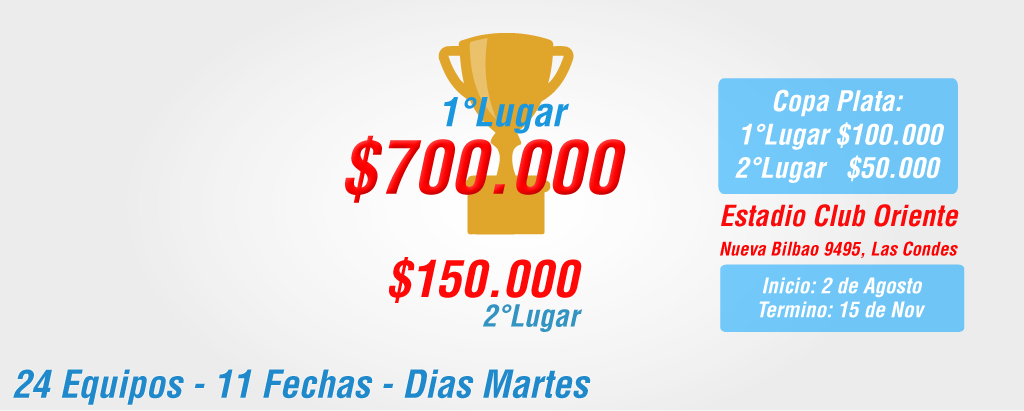
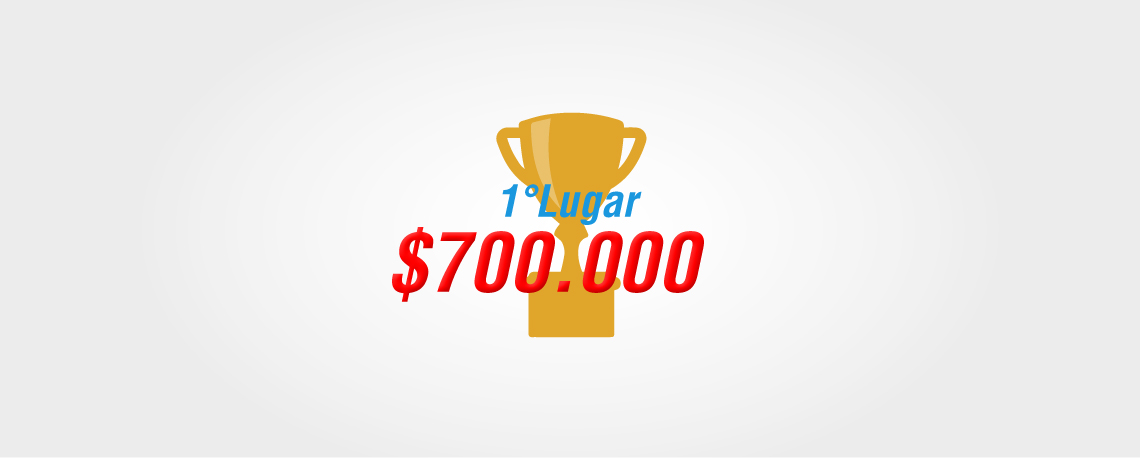
Seccion Info
Seccion info version demo

diff --git a/premios.html b/premios.html
@@ -7,6 +7,7 @@
 		<meta name="viewport" content="width=device-width, initial-scale=1">
 		<link href='https://fonts.googleapis.com/css?family=Montserrat:400,700' rel='stylesheet' type='text/css'>
 		<link rel="stylesheet" type="text/css" href="css/liga.css">
+		<link rel="stylesheet" type="text/css" href="css/sticky-footer.css">
 		<link href="https://fonts.googleapis.com/icon?family=Material+Icons" rel="stylesheet">
 	    <link rel="stylesheet" href="http://maxcdn.bootstrapcdn.com/bootstrap/3.3.5/css/bootstrap.min.css">
 	    <link rel="stylesheet" href="https://maxcdn.bootstrapcdn.com/font-awesome/4.5.0/css/font-awesome.min.css">
@@ -20,11 +21,14 @@
 
 	<div class="container head">
 		<div class="row">
-			<div class="col-lg-12">
-				<figure>
-					<a class="navbar-brand" href="index.html"><img src="img/logo2.png"></a>
-				</figure>
+			<div class="col-lg-6 col-md-6 col-xs-12 col-sm-6">
+				
+					<a href="index.html"><img src="img/logo2.png"></a>
+				
+				
 			</div>
+			
+			
 		</div>
 	</div>
 
@@ -49,8 +53,9 @@
 		     
 		      <ul class="nav navbar-nav navbar-right">
 		        <li><a href="#">Liga Evoluciona</a></li>
-		        <li><a href="#">Premios</a></li>
-		        <li><a href="#">Fechas</a></li>
+		        <li><a href="premios.html">Información</a></li>
+		        
+		        <li><a href="#">Bases</a></li>
 		        <li><a href="#">Contáctanos</a></li>
 		        <!--<li class="dropdown">
 		          <a href="#" class="dropdown-toggle" data-toggle="dropdown" role="button" aria-haspopup="true" aria-expanded="false">Dropdown <span class="caret"></span></a>
@@ -71,15 +76,70 @@
 
 	<div class="container section-a" >
 		<div class="row">
+			<div class="col-md-8 col-md-offset-2 cup">
+				<div class="cup-content">
+					<p>Copa Oro:</p>
+					<figure>
+							<img src="img/cup.png">
+					</figure>
+				</div>
+			</div>
+			
 			<div class="col-md-8 col-md-offset-2  content-a">
-				<figure>
-					<img src="img/cup.png">
-				</figure>
+				
 				<p>1°Lugar<span>700.000</span></p>
+			</div>
+			<div class="col-md-8 col-md-offset-2  content-a">
+				
+				<p>2°Lugar 150.000</p>
+			</div>
+
+			<div class="col-md-8 col-md-offset-2 cup">
+				<div class="cup-content">
+					<p>Copa Plata:</p>
+					<figure>
+							<img src="img/cup2.png">
+					</figure>
+				</div>
+			</div>
+			
+			<div class="col-md-8 col-md-offset-2  content-a">
+				
+				<p>1°Lugar<span>700.000</span></p>
+			</div>
+			<div class="col-md-8 col-md-offset-2  content-a">
+				
+				<p>2°Lugar 150.000</p>
+			</div>
+
+			<div class="col-md-8 col-md-offset-2 cup">
+				<div class="cup-content">
+					<p>Donde <i class="fa fa-map-marker"></i></p>
+					
+				</div>
+			</div>
+
+			<div class="col-md-8 col-md-offset-2  content-a">
+				
+				<p>Estadio Club Oriente</p>
+				<p>Nueva Bilbao 945 Las Condes</p>
 			</div>
 		</div>
 		
 	</div>
+
+	<footer class="container-fluid footer" style="width:100%;">
+	    <div class="row">
+	      <div class="col-md-12"> 
+	        <img class="footer-logo" src="img/logo2.png" alt="Delta G">
+	        <span class="footer-content">&copy; 2016 LigaEvoluciona Todos los derechos reservados.</span>
+	        <span class=" footer-social">       
+	          <a href="https://www.facebook.com/dgequipments/"><i class="fa fa-facebook-square fa-3x"></i></a>&nbsp;&nbsp;
+	          <a href="http://www.twitter.com/"><i class="fa fa-twitter-square fa-3x"></i></a>&nbsp;&nbsp;
+	        </span>
+	      </div>
+	    </div>
+	</footer>
 
 
 	<script src="http://code.jquery.com/jquery-2.1.1.min.js"></script>

diff --git a/css/liga.scss b/css/liga.scss
@@ -4,11 +4,14 @@
 }
 
 .head{
-	height: 120px;
+	
 	img{
 		width: 180px;
+		padding: 10px;
 		
 	}
+	
+	
 }
 .navbar-default{
 	background-color: rgba(200,200,200,0) !important;
@@ -47,7 +50,7 @@
 }
 
 .carousel-control.right {
-    right: 131px !important;
+    //right: 131px !important;
     background-image: -webkit-linear-gradient(left,rgba(0,0,0,.0001) 0,rgba(0,0,0,0) 100%)!important;
     background-image: -o-linear-gradient(left,rgba(0,0,0,.0001) 0,rgba(0,0,0,.0) 100%)!important;
     background-image: -webkit-gradient(linear,left top,right top,from(rgba(0,0,0,.0001)),to(rgba(0,0,0,0)))!important;
@@ -55,14 +58,14 @@
 }
 
 .carousel-control.left{
-	left: 15px !important;
+	//left: 15px !important;
 	background-image: -webkit-linear-gradient(left,rgba(0,0,0,.0001) 0,rgba(0,0,0,0) 100%)!important;
     background-image: -o-linear-gradient(left,rgba(0,0,0,.0001) 0,rgba(0,0,0,.0) 100%)!important;
     background-image: -webkit-gradient(linear,left top,right top,from(rgba(0,0,0,.0001)),to(rgba(0,0,0,0)))!important;
     background-image: linear-gradient(to right,rgba(0,0,0,.0001) 0,rgba(0,0,0,0) 100%)!important;
 }
 .carousel-inner{
-	width: 90%;
+	//width: 90%;
 }
 .carousel-slide{
 	margin: 0px auto;
@@ -70,21 +73,41 @@
 
 
 .section-a{
+	.cup{
 
+		
+		
+		.cup-content{
+			margin-top: 50px;
+
+			p{
+				display: inline-block;
+				font-size: 20px;
+				font-weight: bold;
+				color: white;
+			}
+			figure{
+					display: inline-block;
+					img{
+						width: 30px;
+						transition: width 0.5s linear 0.2s;
+					}
+					img:hover{
+						width: 40px;
+					}
+			}
+
+		}
+				
+	}
+	
 	.content-a{
 		background-color: rgba(156,156,156,0.4);
 		padding: 20px;
 		border-radius: 5px;
-		figure{
-			display: inline-block;
-			img{
-				width: 60px;
-				transition: width 0.5s linear 0.2s;
-			}
-			img:hover{
-				width: 80px;
-			}
-		}
+		margin-top: 10px;
+
+		
 		p{
 			display: inline-block;
 			font-size: 30px;
@@ -125,7 +148,13 @@
 			}
 		}
 	}
+
+	.head{
+		
+
+	}
 }
+
 @media (min-width: 768px){
 	.navbar-default{
 		

diff --git a/css/liga.css b/css/liga.css
@@ -2,12 +2,9 @@
   font-family: 'Montserrat', sans-serif;
 }
 
-.head {
-  height: 120px;
-}
-
 .head img {
   width: 180px;
+  padding: 10px;
 }
 
 .navbar-default {
@@ -32,7 +29,6 @@
 }
 
 .carousel-control.right {
-  right: 131px !important;
   background-image: -webkit-linear-gradient(left, rgba(0, 0, 0, 0.0001) 0, transparent 100%) !important;
   background-image: -o-linear-gradient(left, rgba(0, 0, 0, 0.0001) 0, transparent 100%) !important;
   background-image: -webkit-gradient(linear, left top, right top, from(rgba(0, 0, 0, 0.0001)), to(transparent)) !important;
@@ -40,38 +36,45 @@
 }
 
 .carousel-control.left {
-  left: 15px !important;
   background-image: -webkit-linear-gradient(left, rgba(0, 0, 0, 0.0001) 0, transparent 100%) !important;
   background-image: -o-linear-gradient(left, rgba(0, 0, 0, 0.0001) 0, transparent 100%) !important;
   background-image: -webkit-gradient(linear, left top, right top, from(rgba(0, 0, 0, 0.0001)), to(transparent)) !important;
   background-image: linear-gradient(to right, rgba(0, 0, 0, 0.0001) 0, transparent 100%) !important;
 }
 
-.carousel-inner {
-  width: 90%;
-}
-
 .carousel-slide {
   margin: 0px auto;
+}
+
+.section-a .cup .cup-content {
+  margin-top: 50px;
+}
+
+.section-a .cup .cup-content p {
+  display: inline-block;
+  font-size: 20px;
+  font-weight: bold;
+  color: white;
+}
+
+.section-a .cup .cup-content figure {
+  display: inline-block;
+}
+
+.section-a .cup .cup-content figure img {
+  width: 30px;
+  transition: width 0.5s linear 0.2s;
+}
+
+.section-a .cup .cup-content figure img:hover {
+  width: 40px;
 }
 
 .section-a .content-a {
   background-color: rgba(156, 156, 156, 0.4);
   padding: 20px;
   border-radius: 5px;
-}
-
-.section-a .content-a figure {
-  display: inline-block;
-}
-
-.section-a .content-a figure img {
-  width: 60px;
-  transition: width 0.5s linear 0.2s;
-}
-
-.section-a .content-a figure img:hover {
-  width: 80px;
+  margin-top: 10px;
 }
 
 .section-a .content-a p {

diff --git a/index.html b/index.html
@@ -19,15 +19,20 @@
 </head>
 <body background="img/fieldbg.jpg">
 
+
+
 	
 
 	<div class="container head">
 		<div class="row">
-			<div class="col-lg-12">
-				<figure>
-					<a class="navbar-brand" href="index.html"><img src="img/logo2.png"></a>
-				</figure>
+			<div class="col-lg-6 col-md-6 col-xs-12 col-sm-6">
+				
+					<a href="index.html"><img src="img/logo2.png"></a>
+				
+				
 			</div>
+			
+			
 		</div>
 	</div>
 
